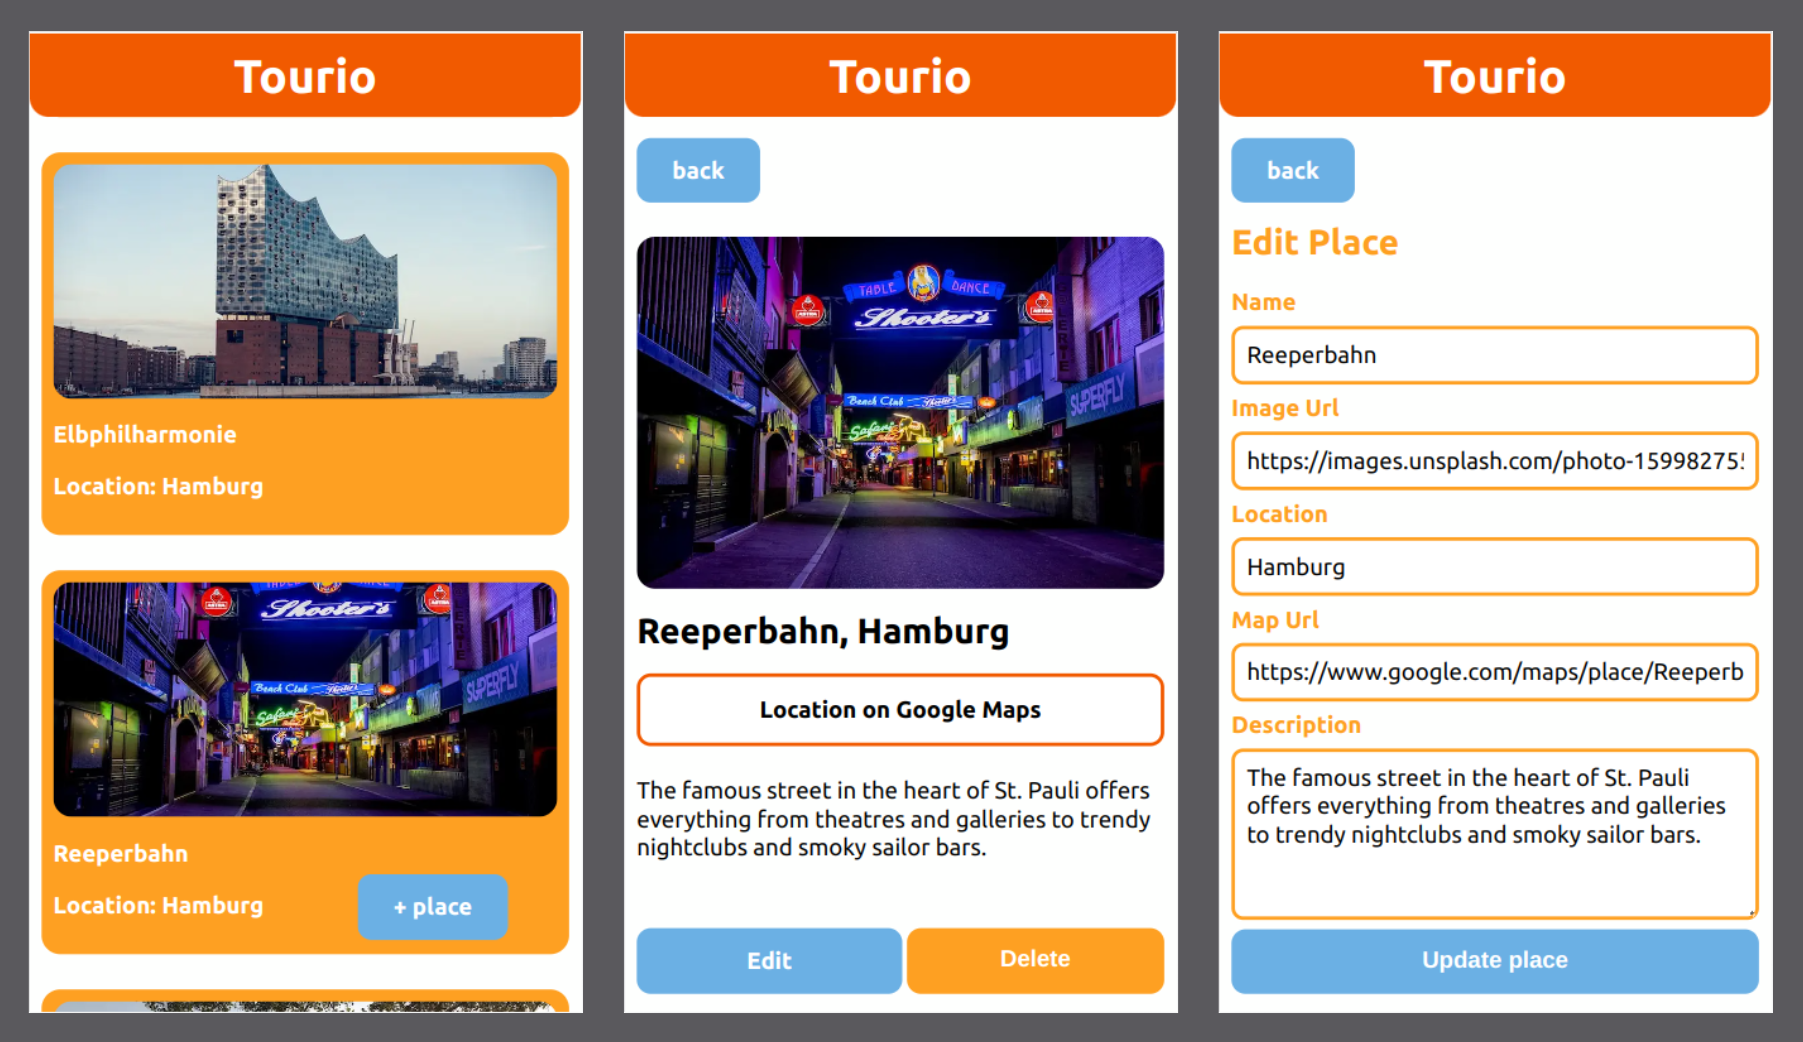
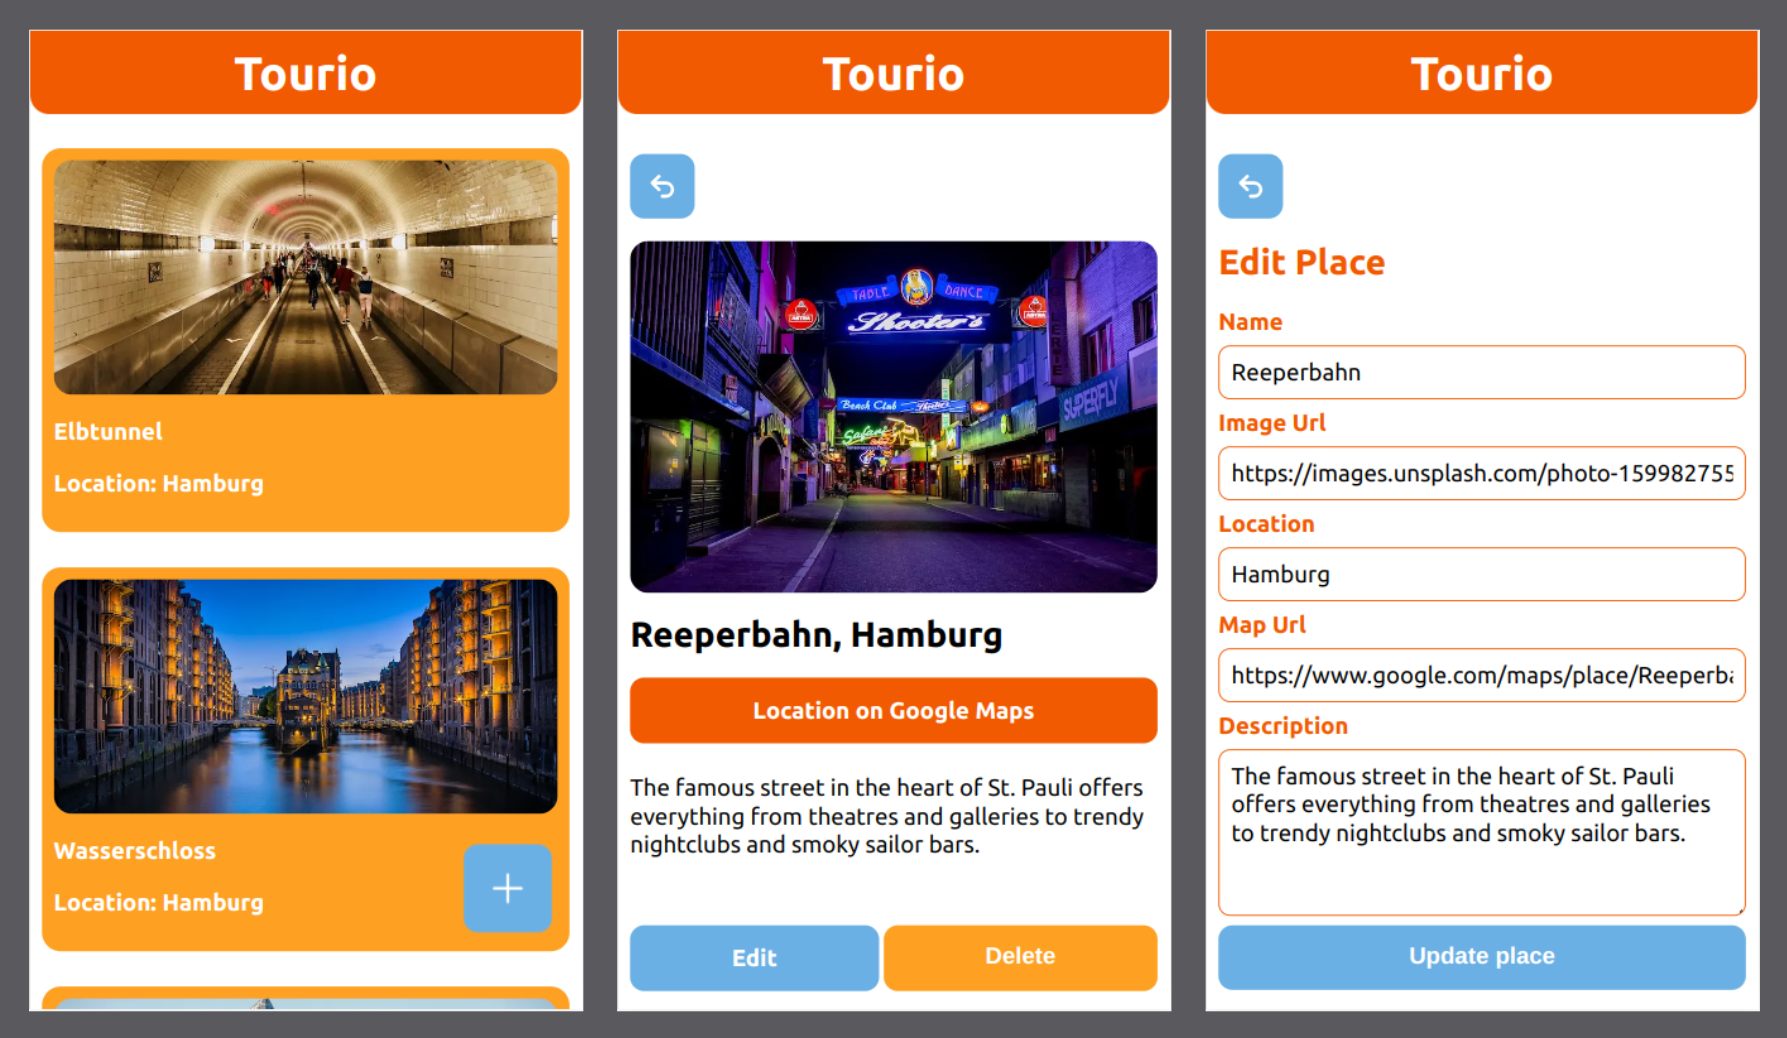
add styling and screenshot

diff --git a/pages/places/[id]/index.js b/pages/places/[id]/index.js
@@ -6,11 +6,6 @@ import { StyledLink } from "../../../components/StyledLink.js";
 import { StyledButton } from "../../../components/StyledButton.js";
 import { StyledImage } from "../../../components/StyledImage.js";
 
-const Wrapper = styled.div`
-  margin-top: 20px;
-  margin-bottom: 20px;
-`;
-
 const StyledTitle = styled.h2`
   margin-top: 10px;
   margin-bottom: 10px;
@@ -36,9 +31,9 @@ const ButtonContainer = styled.section`
 
 const StyledLocationLink = styled(StyledLink)`
   text-align: center;
-  background-color: white;
-  border: 3px solid #f15a00;
-  color: black;
+  background-color: #f15a00;
+
+  color: white;
 `;
 
 export default function DetailsPage() {
@@ -66,11 +61,26 @@ export default function DetailsPage() {
 
   return (
     <>
-      <Wrapper>
-        <Link href={"/"} passHref legacyBehavior>
-          <StyledLink justifySelf="start">back</StyledLink>
-        </Link>
-      </Wrapper>
+      <Link href={"/"} passHref legacyBehavior>
+        <StyledLink variant="back">
+          {" "}
+          <svg
+            xmlns="http://www.w3.org/2000/svg"
+            fill="none"
+            viewBox="0 0 24 24"
+            stroke-width="3"
+            stroke="white"
+            width="30px"
+            height="30px"
+          >
+            <path
+              stroke-linecap="round"
+              stroke-linejoin="round"
+              d="M9 15L3 9m0 0l6-6M3 9h12a6 6 0 010 12h-3"
+            />
+          </svg>
+        </StyledLink>
+      </Link>
       <ImageContainer>
         <StyledImage
           src={place.image}

diff --git a/pages/index.js b/pages/index.js
@@ -1,7 +1,6 @@
 import styled from "styled-components";
 import Card from "../components/Card.js";
 import useSWR from "swr";
-import Link from "next/link.js";
 import { StyledLink } from "../components/StyledLink.js";
 
 const List = styled.ul`
@@ -19,8 +18,13 @@ const ListItem = styled.li`
 `;
 const FixedLink = styled(StyledLink)`
   position: fixed;
-  bottom: 50px;
-  right: 50px;
+  display: flex;
+  justify-content: center;
+  align-items: center;
+  bottom: 53px;
+  right: 20px;
+  width: 60px; /* Set the width to 30px */
+  height: 60px; /* Set the height to 30px */
 `;
 export default function Home() {
   const { data } = useSWR("/api/places", { fallbackData: [] });
@@ -41,9 +45,23 @@ export default function Home() {
           );
         })}
       </List>
-      <Link href="/create" passHref legacyBehavior>
-        <FixedLink>+ place</FixedLink>
-      </Link>
+      <FixedLink href="/create" passHref legacyBehavior>
+        <svg
+          xmlns="http://www.w3.org/2000/svg"
+          fill="none"
+          viewBox="0 0 24 24"
+          stroke-width="1.5"
+          stroke="white"
+          width="30px"
+          height="30px"
+        >
+          <path
+            stroke-linecap="round"
+            stroke-linejoin="round"
+            d="M12 4.5v15m7.5-7.5h-15"
+          />
+        </svg>
+      </FixedLink>
     </>
   );
 }

diff --git a/pages/places/[id]/edit.js b/pages/places/[id]/edit.js
@@ -6,13 +6,9 @@ import { StyledLink } from "../../../components/StyledLink.js";
 import styled from "styled-components";
 
 const StyledTitle = styled.h2`
-  color: #fea022;
+  color: #f15a00;
   margin-bottom: 0.8rem;
-  margin-top: 20px;
-`;
-
-const Wrapper = styled.div`
-  margin-top: 20px;
+  margin-top: 10px;
 `;
 
 export default function EditPage() {
@@ -39,11 +35,25 @@ export default function EditPage() {
 
   return (
     <>
-      <Wrapper>
-        <Link href={`/places/${id}`} passHref legacyBehavior>
-          <StyledLink justifySelf="start">back</StyledLink>
-        </Link>
-      </Wrapper>
+      <Link href={`/places/${id}`} passHref legacyBehavior>
+        <StyledLink variant="back">
+          <svg
+            xmlns="http://www.w3.org/2000/svg"
+            fill="none"
+            viewBox="0 0 24 24"
+            stroke-width="3"
+            stroke="white"
+            width="30px"
+            height="30px"
+          >
+            <path
+              stroke-linecap="round"
+              stroke-linejoin="round"
+              d="M9 15L3 9m0 0l6-6M3 9h12a6 6 0 010 12h-3"
+            />
+          </svg>
+        </StyledLink>
+      </Link>
       <StyledTitle id="edit-place">Edit Place</StyledTitle>
       <Form onSubmit={editPlace} formName={"edit-place"} defaultData={place} />
     </>

diff --git a/pages/create.js b/pages/create.js
@@ -5,13 +5,10 @@ import Form from "../components/Form.js";
 import { StyledLink } from "../components/StyledLink.js";
 import useSWR from "swr";
 
-const StyledBackLink = styled(StyledLink)`
-  justify-self: flex-start;
-`;
-
 const StyledTitle = styled.h2`
-  color: #fea022;
-  margin-bottom: 5px;
+  color: #f15a00;
+  margin-bottom: 0.8rem;
+  margin-top: 10px;
 `;
 
 export default function CreatePlacePage() {
@@ -34,10 +31,26 @@ export default function CreatePlacePage() {
 
   return (
     <>
-      <StyledTitle id="add-place">Add Place</StyledTitle>
       <Link href="/" passHref legacyBehavior>
-        <StyledBackLink>back</StyledBackLink>
+        <StyledLink variant="back">
+          <svg
+            xmlns="http://www.w3.org/2000/svg"
+            fill="none"
+            viewBox="0 0 24 24"
+            stroke-width="3"
+            stroke="white"
+            width="30px"
+            height="30px"
+          >
+            <path
+              stroke-linecap="round"
+              stroke-linejoin="round"
+              d="M9 15L3 9m0 0l6-6M3 9h12a6 6 0 010 12h-3"
+            />
+          </svg>
+        </StyledLink>
       </Link>
+      <StyledTitle id="add-place">Add Place</StyledTitle>
       <Form onSubmit={addPlace} formName={"add-place"} />
     </>
   );

diff --git a/components/StyledLink.js b/components/StyledLink.js
@@ -1,24 +1,22 @@
 import styled, { css } from "styled-components";
 
 export const StyledLink = styled.a`
+  display: flex;
+  justify-content: center;
+  align-items: center;
   background-color: #6bb0e4;
-  padding: 0.8rem 1.5rem;
+  padding: 0.8rem;
   border-radius: 0.6rem;
   color: white;
   text-decoration: none;
   font-weight: bold;
 
-  ${({ justifySelf }) =>
-    justifySelf &&
-    css`
-      justify-self: ${justifySelf};
-    `}
-
   ${({ variant }) =>
-    variant === "outlined" &&
+    variant === "back" &&
     css`
-      text-align: center;
-      background-color: white;
-      border: 3px solid #6bb0e4;
+      justify-self: flex-start;
+      height: 44px;
+      width: 44px;
+      margin-top: 20px;
     `}
 `;

diff --git a/components/Form.js b/components/Form.js
@@ -9,7 +9,7 @@ const FormContainer = styled.form`
 const Input = styled.input`
   padding: 0.5rem;
   font-size: inherit;
-  border: 3px solid #fea022;
+  border: 1px solid #f15a00;
   border-radius: 0.5rem;
   font-family: inherit;
 `;
@@ -17,14 +17,14 @@ const Input = styled.input`
 const Textarea = styled.textarea`
   font-family: inherit;
   font-size: inherit;
-  border: 3px solid #fea022;
+  border: 1px solid #f15a00;
   border-radius: 0.5rem;
   padding: 0.5rem;
 `;
 
 const Label = styled.label`
   font-weight: bold;
-  color: #fea022;
+  color: #f15a00;
 `;
 
 export default function Form({ onSubmit, formName, defaultData }) {
